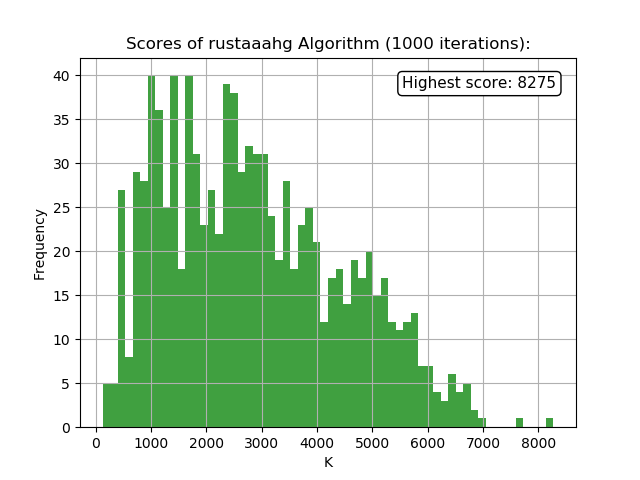
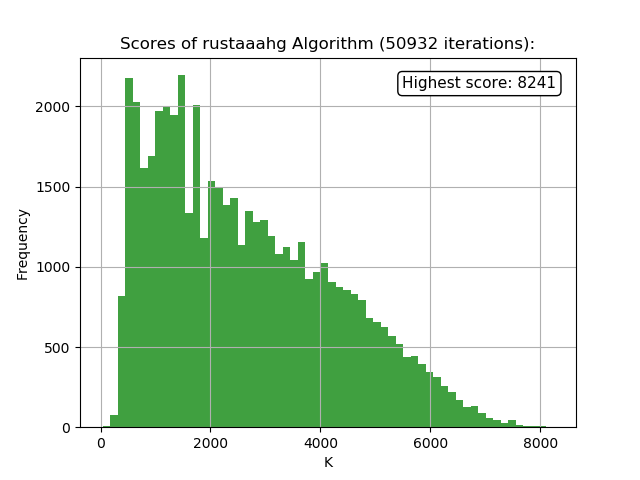
experiment1 af

diff --git a/code/algorithms/randalg.py b/code/algorithms/randalg.py
@@ -1,60 +1,65 @@
 import sys
+sys.path.append('../')
 sys.path.append('/classes')
 
 import random
+from typing import Dict, List
 
 from classes.traject import Traject
 from classes.dienstregeling import Regeling
+from classes.stations import Station
 
 
 """
-Implementatie van het random algoritme.
+Implementatie van het random algoritme. Om dit algoritme aan te roepen
+kan je dit script runnen.
+
+Usage: 'python3 randalg.py holland' or 'python3 randalg.py nl' 
 """
 
-def set_begin_stations_bizzey():
-    pass
+def start_stations_bizzey():
+    """
+    Returns the starting station for the 'bizzey' traject.
+    """
+    station_names_bizzey = ["Amsterdam Sloterdijk", "Leiden Centraal"]
+    return station_names_bizzey
 
-def set_begin_stations_rustaaahg():
-    pass
+
+def start_stations_rustaaahg():
+    """
+    Returns the starting station for the 'rustaaahg' traject.
+    """
+    station_names_bizzey = ["Den Helder", "Dordrecht"]
+    return station_names_bizzey
 
 # Eenmalige run van het random algoritme
-def run_randalg(algorithm_instance, regio):
+def run_randalg(algorithm_instance: Regeling, regio) -> int:
 
-    # Initialiseer een toestand van de dienstregeling
-    state = Regeling()
-
-    # Stel maxima in op basis van de regio
-    if regio == 'h':
-        state.max_trajecten = 7
-        # traject.max_tijd = 120
-    elif regio == 'nl':
-        state.max_trajecten = 20
-        # traject.max_tijd = 180
-    else:
-        raise AssertionError ("Geen valide naam!")
+    # Roep een toestand op waarin de dienstregeling zich verkeert
+    State: Regeling = Regeling(algorithm_instance.alle_connecties)
 
     # Random aantal trajecten
-    aantal_trajecten = random.randint(1, 7)
+    aantal_trajecten: int = random.randint(1, algorithm_instance.max_trajecten)
 
     # Maximale tijd per traject
-    max_tijd_per_traject = random.randint(1, 120)
+    max_tijd_per_traject: int = random.randint(1, 120)
 
     for i in range(aantal_trajecten):
         # random start station
-        random_station_name = random.choice(list(algorithm_instance.station_objects.keys()))
-        random_station = algorithm_instance.station_objects[random_station_name]
+        random_station_name: str = random.choice(list(algorithm_instance.station_objects.keys()))
+        random_station: Station = algorithm_instance.station_objects[random_station_name]
         
         # begin een traject
-        traject = Traject(f"Traject_{i+1}")
+        traject: Traject = Traject(f"Traject_{i+1}")
         
         # begin met het maken van een traject
         traject.add_station(random_station)
         
         # Voeg een eerste verbinding toe zodat er nooit 0 verbindingen zijn
-        connected_stations = list(random_station.connections.keys())
+        connected_stations: List[str] = list(random_station.connections.keys())
         if connected_stations:  # Ensure there is at least one connected station
-            next_station_name = random.choice(connected_stations)
-            next_station = algorithm_instance.station_objects[next_station_name]
+            next_station_name: str = random.choice(connected_stations)
+            next_station: Station = algorithm_instance.station_objects[next_station_name]
             traject.add_station(next_station)
             random_station = next_station
         
@@ -65,11 +70,11 @@ def run_randalg(algorithm_instance, regio):
                 break
             
             # Voeg random station aan traject
-            next_station_name = random.choice(connected_stations)
+            next_station_name: str = random.choice(connected_stations)
             next_station = algorithm_instance.station_objects[next_station_name]
             
             # Check de tijd voordat je weer een station toevoegt 
-            additional_time = int(random_station.connections[next_station_name])
+            additional_time: int = int(random_station.connections[next_station_name])
             if traject.time + additional_time > max_tijd_per_traject:
                 break
             
@@ -78,27 +83,122 @@ def run_randalg(algorithm_instance, regio):
             random_station = next_station
         
         # Update de toestand van de dienstregeling
-        state.add_traject(traject)
+        State.add_traject(traject)
     
 
     # Bereken de score van de gehele dienstregeling
-    K = state.calculate_score()
+    K: int = State.calculate_score()
+    return State, K
 
-    return state, K
+def run_randalg_bizzey(algorithm_instance: Regeling, regio) -> int:
+    
+    bizzey_start_stations = start_stations_bizzey()
 
+    State: Regeling = Regeling(algorithm_instance.alle_connecties)
 
-def run_randalg_bizzey(algorithm_instance: Regeling):
+    aantal_trajecten: int = random.randint(2, algorithm_instance.max_trajecten)
 
-    set_begin_stations_bizzey()
+    max_tijd_per_traject: int = random.randint(1, 120)
 
-    run_randalg()
+    for i in range(aantal_trajecten):
+        # Use the bizzey start stations for the first two trajectories
+        if i < len(bizzey_start_stations):
+            station_name = bizzey_start_stations[i]
+            random_station = algorithm_instance.station_objects.get(station_name)
+        else:
+        # Random start station for subsequent trajectories
+            random_station_name = random.choice(list(algorithm_instance.station_objects.keys()))
+            random_station = algorithm_instance.station_objects[random_station_name]
 
-    pass
+        traject: Traject = Traject(f"Bizzey_Traject_{i+1}")
 
-def run_randalg_rustaaahg(algorithm_instance: Regeling):
+        traject.add_station(random_station)
 
-    set_begin_stations_rustaaahg()
+        connected_stations: List[str] = list(random_station.connections.keys())
+        if connected_stations:  # Ensure there is at least one connected station
+            next_station_name: str = random.choice(connected_stations)
+            next_station: Station = algorithm_instance.station_objects[next_station_name]
+            traject.add_station(next_station)
+            random_station = next_station
+        
+        # blijf stations toevoegen totdat de maximale tijd is bereikt
+        while traject.time < max_tijd_per_traject:
+            connected_stations = list(random_station.connections.keys())
+            if not connected_stations:
+                break
+            
+            # Voeg random station aan traject
+            next_station_name: str = random.choice(connected_stations)
+            next_station = algorithm_instance.station_objects[next_station_name]
+            
+            # Check de tijd voordat je weer een station toevoegt 
+            additional_time: int = int(random_station.connections[next_station_name])
+            if traject.time + additional_time > max_tijd_per_traject:
+                break
+            
+            # voeg station toe
+            traject.add_station(next_station)
+            random_station = next_station
+        
+        # Update de toestand van de dienstregeling
+        State.add_traject(traject)
+    
 
-    run_randalg()
+    # Bereken de score van de gehele dienstregeling
+    K: int = State.calculate_score()
+    return State, K
 
-    pass
+def run_randalg_rustaaahg(algorithm_instance: Regeling, regio) -> int:
+    rustaaahg_start_stations = start_stations_rustaaahg()
+
+    State: Regeling = Regeling(algorithm_instance.alle_connecties)
+
+    aantal_trajecten: int = random.randint(2, algorithm_instance.max_trajecten)
+
+    max_tijd_per_traject: int = random.randint(1, 120)
+
+    for i in range(aantal_trajecten):
+        if i < len(rustaaahg_start_stations):
+            station_name = rustaaahg_start_stations[i]
+            random_station = algorithm_instance.station_objects.get(station_name)
+        else:
+            random_station_name = random.choice(list(algorithm_instance.station_objects.keys()))
+            random_station = algorithm_instance.station_objects[random_station_name]
+
+        traject: Traject = Traject(f"Rustaaahg_Traject_{i+1}")
+
+        traject.add_station(random_station)
+
+        connected_stations: List[str] = list(random_station.connections.keys())
+        if connected_stations:  # Ensure there is at least one connected station
+            next_station_name: str = random.choice(connected_stations)
+            next_station: Station = algorithm_instance.station_objects[next_station_name]
+            traject.add_station(next_station)
+            random_station = next_station
+        
+        # blijf stations toevoegen totdat de maximale tijd is bereikt
+        while traject.time < max_tijd_per_traject:
+            connected_stations = list(random_station.connections.keys())
+            if not connected_stations:
+                break
+            
+            # Voeg random station aan traject
+            next_station_name: str = random.choice(connected_stations)
+            next_station = algorithm_instance.station_objects[next_station_name]
+            
+            # Check de tijd voordat je weer een station toevoegt 
+            additional_time: int = int(random_station.connections[next_station_name])
+            if traject.time + additional_time > max_tijd_per_traject:
+                break
+            
+            # voeg station toe
+            traject.add_station(next_station)
+            random_station = next_station
+        
+        # Update de toestand van de dienstregeling
+        State.add_traject(traject)
+    
+
+    # Bereken de score van de gehele dienstregeling
+    K: int = State.calculate_score()
+    return State, K

diff --git a/code/classes/algorithm.py b/code/classes/algorithm.py
@@ -63,10 +63,10 @@ class Algorithm:
             return run_simulated_annealing(algorithm_instance, regio)
         
         elif self.name == 'bizzey':
-            return run_randalg_bizzey(algorithm_instance)
+            return run_randalg_bizzey(algorithm_instance, regio)
             
         elif self.name == 'rustaaahg':
-            return run_randalg_rustaaahg(algorithm_instance)
+            return run_randalg_rustaaahg(algorithm_instance, regio)
         
         else:
             raise AssertionError ("Geen valide naam!")
@@ -79,7 +79,8 @@ class Algorithm:
         self.algorithm_instance = algorithm_instance
         while time.time() - start < 60:
             print(f"run: {n_runs}")
-            score = self.run_algorithm(self.algorithm_instance, 'h')
+            results = self.run_algorithm(self.algorithm_instance, 'h')
+            score = results[1]
             n_runs += 1
             scores_list.append(score)
         return scores_list

diff --git a/code/helpers.py b/code/helpers.py
@@ -7,7 +7,7 @@ def read_csv_file(filename) -> None:
     rows = []
     with open(filename) as file:
         stations = csv.reader(file)
-        _ = next(stations) # Negeer de boevneste regel van het csv bestand
+        _ = next(stations) # Negeer de bovenste regel van het csv bestand
         for row in stations:
             rows.append(row)
     return rows

diff --git a/code/algorithms/greedy.py b/code/algorithms/greedy.py
@@ -8,10 +8,7 @@ from classes.dienstregeling import Regeling
 
 
 """
-Implementatie van het random algoritme. Om dit algoritme aan te roepen
-kan je dit script runnen.
-
-Usage: 'python3 randalg.py holland' or 'python3 randalg.py nl' 
+Implementatie van het greedy algoritme.
 """
 
 # Eenmalige run van het random algoritme

diff --git a/README.md b/README.md
@@ -56,9 +56,17 @@ Het eerste experiment kan gerund worden met:
 python experiment.py exp1
 ```
 
-Met deze opdracht worden twee situaties met elkaar vergeleken. In de eerste situatie begint het algoritme twee van zijn trajecten op de rustigste stations (Den Helder en Dordrecht), en in de tweede situatie begint het op de twee drukste stations (Leiden Centraal en Amsterdam Sloterdijk). 
+Met deze opdracht worden twee situaties met elkaar vergeleken. In de eerste situatie begint het algoritme twee van zijn trajecten op de twee drukste stations (Leiden Centraal en Amsterdam Sloterdijk), en in de tweede situatie begint het op de rustigste stations (Den Helder en Dordrecht).
 
-Het eerste experiment werkt met een random algoritme. De bedoeling is om te kijken of rustige beginstations of drukke beginstations betere resultaten verwerven.
+Het eerste experiment werkt met een random algoritme. De bedoeling is om te kijken of rustige beginstations of drukke beginstations betere resultaten verwerven wanneer al het andere willekeurig is. Het runnen van experiment 1 zet twee loops in werking van ieder 60 seconden. Aan het einde van de loops krijgt de gebruiker achter elkaar twee histogrammen te zien met de verdeling van scores van de twee situaties. Op basis van de histogrammen mag de gebruiker zijn/haar eigen conclusies trekken. :)
+
+Het tweede experiment betreft de temperatuur van het Simulated Annealing algoritme en kan worden aangeroepen met:
+
+```
+python experiment.py exp2
+```
+
+
 
 
 
